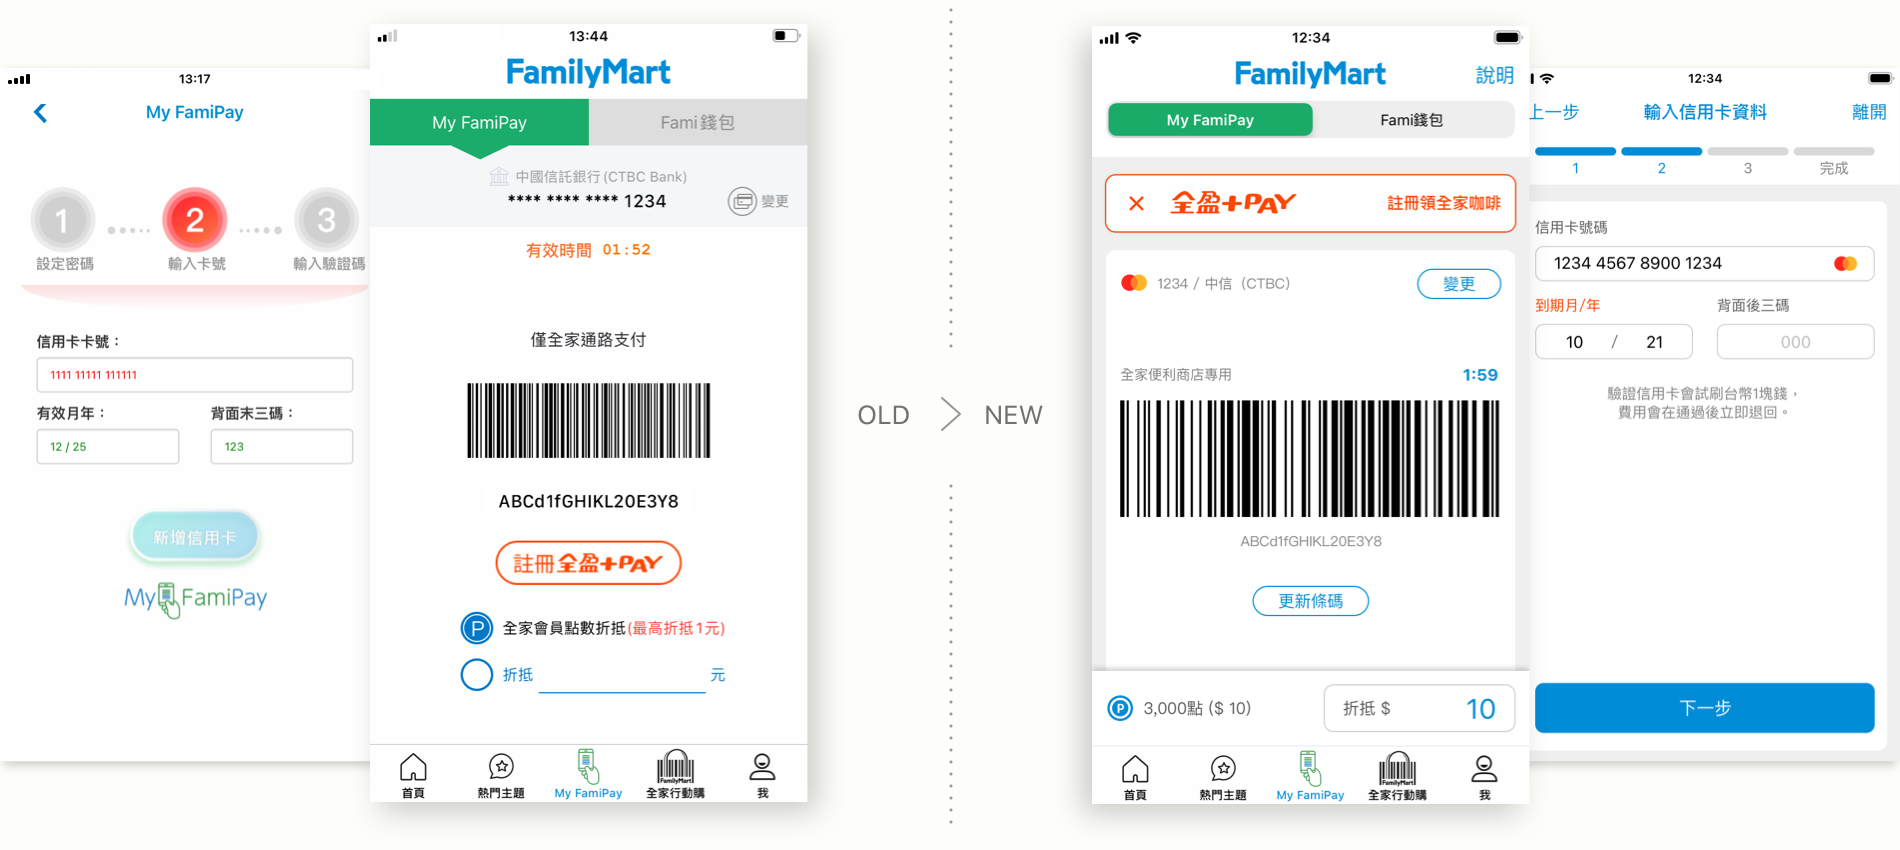
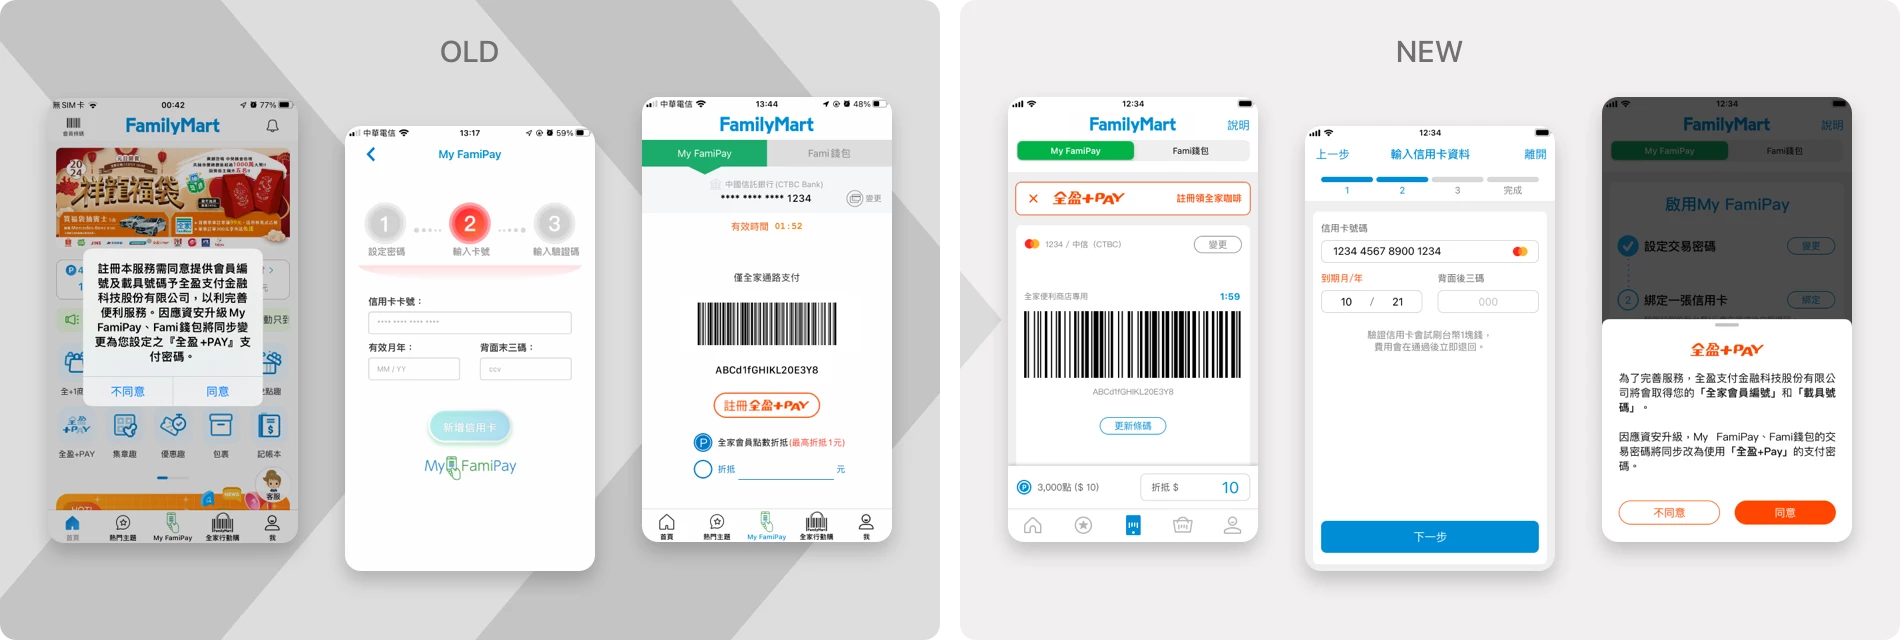
finalized my famiPay

diff --git a/myfamipay.html b/myfamipay.html
@@ -56,7 +56,7 @@
           <ul class="nav">
             <li class="nav-item"><a href="#list-item-1" class="nav-link">About</a></li>
             <li class="nav-item"><a href="#list-item-2" class="nav-link">Identified Opportunities</a></li>
-            <li class="nav-item"><a href="#list-item-3" class="nav-link">Design Ideation</a></li>
+            <li class="nav-item"><a href="#list-item-3" class="nav-link">Redesign</a></li>
           </ul>
         </nav>
       </div>
@@ -94,8 +94,7 @@
             <button class="accordion">1. Make the credit card linking process incentivized and imfomative</button>
             <div class="panel">
               <div class="panelContent row">
-                <div class="col-lg-5">
-                  <h4>Observation</h4>
+				  <div class="col-lg-5"> <h4>Observation</h4>
                   <p>The app lacks clarity in explaining the benefits of linking credit cards and distinguishing between My FamiPay and PlusPay. Moreover, the credit card validation fee of NT$ 1 is not disclosed upfront.
 					</p>
                   <h4>Why this matters?</h4>
@@ -103,9 +102,7 @@
 </p>
                   <h4>Severity Rating ●●●●○</h4>
 					
-					<p> Majority will notice it, and it slows down users completing a task.</p>
-					
-                </div>
+					<p> Majority will notice it, and it slows down users completing a task.</p></div>
                 <div class="col-lg-7 audit">
                   <div class="issueL"> <img src="images/famipay/issue_onboarding_1.webp">
                     <div class="caption">The PlusPay and the My FamiPay are different services, but the app doesn't provide explanation.</div>
@@ -114,6 +111,7 @@
                     <div class="caption">Users will be charged NT$1 during the validation process.</div>
                   </div>
                 </div>
+                
               </div>
             </div>
             
@@ -262,17 +260,66 @@
               </div>
             </div>
           </div>	
-			
-			
-        
+
         <div class="mySectionGroup">
-          <h2 id="list-item-3">Design Ideation</h2></div>
-			<div class="mySectionGroup">
-            <div class="genScreenshot"><img src="images/famipay/redesign_1.webp" alt="The user interface"/>
-			</div></div>
-			<div class="mySectionGroup">
-            <div class="genScreenshot"><img src="images/famipay/redesign_2.webp" alt="The user interface"/>
-			</div></div>
+          <h2 id="list-item-3">Redesign</h2></div>
+			<div class="mySectionGroup row">
+				<div class="screenshot_2col row">
+				  <div class="col-lg-6 col-md-6"><img src="images/famipay/suggestion/redesign_0_a.png"></div>
+				<div class="col-lg-6 col-md-6"><img src="images/famipay/suggestion/redesign_0_b.png"></div>
+				</div>
+          
+			</div>
+		  <div class="mySectionGroup row">
+				<div class="screenshot_2col row">
+				  <div class="col-lg-6 col-md-6"><img src="images/famipay/suggestion/redesign_1_a.webp"></div>
+				<div class="col-lg-6 col-md-6"><img src="images/famipay/suggestion/redesign_1_b.webp"></div>
+				</div>
+          
+			</div>
+		  <div class="mySectionGroup row">
+				<div class="screenshot_2col row">
+				  <div class="col-lg-6 col-md-6"><img src="images/famipay/suggestion/redesign_2_a.webp"></div>
+				<div class="col-lg-6 col-md-6"><img src="images/famipay/suggestion/redesign_2_b.webp"></div>
+				</div>
+          
+			</div>
+		  <div class="mySectionGroup row">
+				<div class="screenshot_2col row">
+				  <div class="col-lg-6 col-md-6"><img src="images/famipay/suggestion/redesign_3_a.webp"></div>
+				<div class="col-lg-6 col-md-6"><img src="images/famipay/suggestion/redesign_3_b.webp"></div>
+				</div>
+          
+			</div>
+		  <div class="mySectionGroup row">
+				<div class="screenshot_2col row">
+				  <div class="col-lg-6 col-md-6"><img src="images/famipay/suggestion/redesign_4_a.webp"></div>
+				<div class="col-lg-6 col-md-6"><img src="images/famipay/suggestion/redesign_4_b.webp"></div>
+				</div>
+          
+			</div>
+		  <div class="mySectionGroup row">
+				<div class="screenshot_2col row">
+				  <div class="col-lg-6 col-md-6"><img src="images/famipay/suggestion/redesign_5_a.webp"></div>
+				<div class="col-lg-6 col-md-6"><img src="images/famipay/suggestion/redesign_5_b.webp"></div>
+				</div>
+          
+			</div>
+		  <div class="mySectionGroup row">
+				<div class="screenshot_2col row">
+				  <div class="col-lg-6 col-md-6"><img src="images/famipay/suggestion/redesign_6_a.webp"></div>
+				<div class="col-lg-6 col-md-6"><img src="images/famipay/suggestion/redesign_6_b.webp"></div>
+				</div>
+          
+			</div>
+		  <div class="mySectionGroup row">
+				<div class="screenshot_2col row">
+				  <div class="col-lg-6 col-md-6"><img src="images/famipay/suggestion/redesign_7_a.webp"></div>
+				<div class="col-lg-6 col-md-6"><img src="images/famipay/suggestion/redesign_7_b.webp"></div>
+				</div>
+          
+			</div>
+			
         
       </main>
       <p></p>

diff --git a/css/myStyle.css b/css/myStyle.css
@@ -420,12 +420,13 @@ body {
   margin-top: 0px;
   margin-bottom: 3rem;
 }
+
 .auditTXT {
   margin-top: 1.5rem;
 }
 .audit img {
   max-width: 100%;
-  border-radius: 4px;
+  border-radius: 8px;
 }
 .audit .suggestion, .audit .original {
   border-radius: 15px;
@@ -433,14 +434,14 @@ body {
   display: inline-block;
   max-width: 49%;
 }
-.audit .issueR, .audit .issueL {
+.audit .issueR, .audit .issueL, .idea .issueR, .idea .issueL {
   /* background:#FFDEDE;*/
   border-radius: 15px;
   padding: 0.5rem;
   display: inline-block;
   max-width: 49%;
 }
-.audit .issue .caption, .audit .issueR .caption, .audit .issueL .caption {
+.audit .caption {
   font-size: 0.8rem;
   margin-top: 0.5rem;
 }
@@ -452,10 +453,10 @@ body {
   margin-left: auto;
   margin-right: auto;
 }
-.audit .issueL {
+.audit .issueL, .idea .issueL {
   float: left;
 }
-.audit .issueR {
+.audit .issueR, .idea .issueR {
   float: right;
 }
 .audit .original {
@@ -599,4 +600,12 @@ body {
 #upNext  .prjType-client{
   font-size: 0.8rem;
   color: #777;
+}
+.screenshot_2col{
+	margin-left: auto;
+	margin-right: auto;
+}
+.screenshot_2col img{
+	width: 100%;
+	border-radius: 0.8rem;
 }
